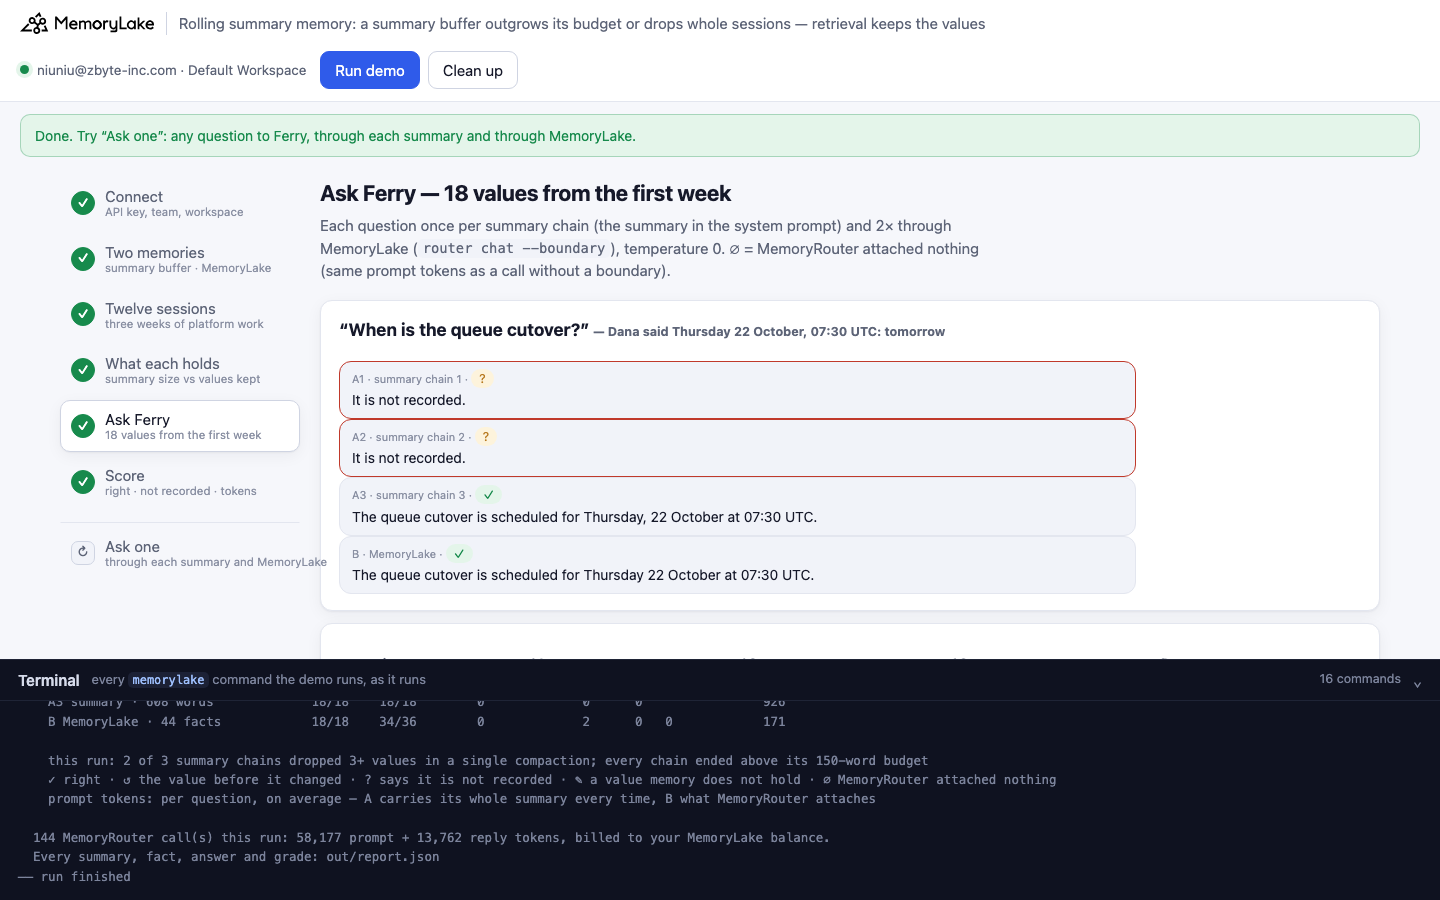
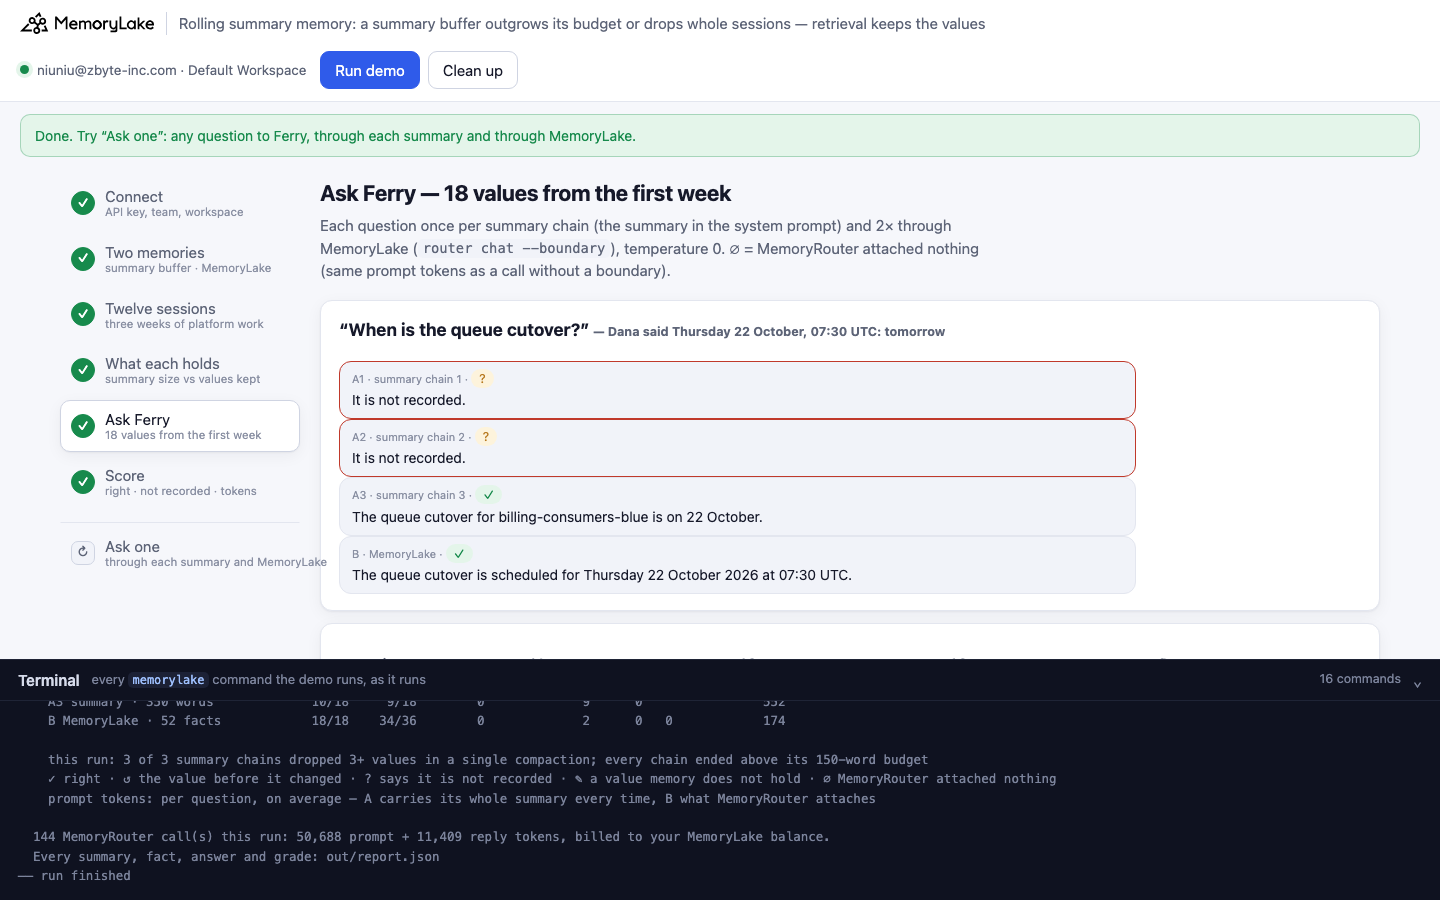
rolling-summary-memory: demo videos (CLI 10:08 · Web 10:22) and the 9-run totals

diff --git a/rolling-summary-memory/README.md b/rolling-summary-memory/README.md
@@ -4,7 +4,8 @@ A runnable version of the MemoryLake use case
 [*Stop Summarizing Agent History. Retrieve Structured Memory Instead.*](https://www.memorylake.ai/en/usecase/stop-summarizing-agent-history-retrieve-it-instead),
 built entirely on the [`memorylake` CLI](https://github.com/memorylake-ai/memorylake-cli) (v20261015 or later).
 
-**Watch it run:** recording in progress.
+**Watch it run:** [CLI, 10:08](https://github.com/memorylake-ai/memorylake-usecases/releases/download/rolling-summary-memory-v1/rolling-summary-memory-cli-demo.mp4) · [Web, 10:22](https://github.com/memorylake-ai/memorylake-usecases/releases/download/rolling-summary-memory-v1/rolling-summary-memory-web-demo.mp4)
+([release](https://github.com/memorylake-ai/memorylake-usecases/releases/tag/rolling-summary-memory-v1); GitHub serves them as downloads). Each video is one run; the numbers below add up all of them.
 
 **The problem.** Long agent history doesn't fit in the prompt, so many assistants keep a running summary: after each
 session the model folds the new session into the summary, with a size budget. It looks cheap and tidy. Two things
@@ -36,7 +37,7 @@ Then, on Wednesday 21 October, Ferry is asked for the 18 values — once per sum
 on `gpt-4o-mini` at temperature 0, with a system prompt that says "If it is not in what you remember, say it is not
 recorded." Nobody is tricked into guessing: the failure is honest forgetting.
 
-Over 7 runs (21 summary chains), **17 of 21 chains lost 4–12 values in a single compaction** (most often 9–11 at once); none of the 21 stayed under its 150-word budget (final size 160–608 words). Ferry answered **198/378** right from the summaries — 179 times "It is not recorded" — and **245/252** through MemoryLake, where all 18 values were in the facts in every run. Per question, the summary cost 537 prompt tokens on average (279–930); MemoryRouter's attachment, 172 (149–278). Details in [Measured](#measured).
+Over 9 runs (27 summary chains), **23 of 27 chains lost 4–12 values in a single compaction** (most often 9–11 at once); none of the 27 stayed under its 150-word budget (final size 160–608 words). Ferry answered **247/486** right from the summaries — 238 times "It is not recorded" — and **315/324** through MemoryLake, where all 18 values were in the facts in every run. Per question, the summary cost 522 prompt tokens on average (279–930); MemoryRouter's attachment, 172 (149–278). Details in [Measured](#measured).
 
 ## Prerequisites
 
@@ -211,7 +212,7 @@ because the whole summary rides along every time. MemoryRouter attached about 17
 
 ## Measured
 
-7 runs: three terminal runs, three parallel copies of the demo with their own `custom_id` prefix, and one browser run. Every number below comes from the saved reports (`out/runs/`), re-graded with the final grader.
+9 runs: three terminal runs, three parallel copies of the demo with their own `custom_id` prefix, the run recorded for the CLI video (from a fresh `git clone`), and two browser runs (the second is the web video). Every number below comes from the saved reports (`out/runs/`), re-graded with the final grader.
 
 **Per run** — each summary chain's final size and values held, and every compaction that dropped 3 or more values the summary held a moment before (`−N at sK (words before → after)`); then answers right from the summaries (3 chains × 18), what the facts held, and answers right through MemoryLake (2 × 18):
 
@@ -223,36 +224,38 @@ because the whole summary rides along every time. MemoryRouter attached about 17
 | copy1 | 336 w · 6/18 · −4 at s5 (182→171 w), −9 at s9 (338→156 w) | 232 w · 7/18 · −11 at s11 (510→164 w) | 219 w · 7/18 · −11 at s11 (507→152 w) | 20/54 | 47 facts · 18/18 | 36/36 |
 | copy2 | 599 w · 18/18 | 231 w · 7/18 · −11 at s11 (510→163 w) | 247 w · 8/18 · −10 at s11 (510→180 w) | 33/54 | 49 facts · 18/18 | 34/36 |
 | copy3 | 345 w · 8/18 · −11 at s8 (317→165 w) | 423 w · 8/18 · −11 at s7 (259→161 w) | 228 w · 8/18 · −10 at s11 (486→161 w) | 24/54 | 50 facts · 18/18 | 34/36 |
+| cli | 247 w · 8/18 · −11 at s7 (256→166 w) | 331 w · 8/18 · −11 at s7 (255→166 w) | 230 w · 8/18 · −10 at s11 (516→163 w) | 24/54 | 46 facts · 18/18 | 36/36 |
 | web1 | 327 w · 8/18 · −11 at s8 (306→193 w) | 219 w · 7/18 · −11 at s11 (506→152 w) | 608 w · 18/18 | 33/54 | 44 facts · 18/18 | 34/36 |
+| web2 | 364 w · 8/18 · −11 at s8 (317→183 w) | 225 w · 8/18 · −6 at s8 (313→264 w), −4 at s11 (377→159 w) | 350 w · 10/18 · −9 at s8 (308→151 w) | 25/54 | 52 facts · 18/18 | 34/36 |
 
 **Per question** (right / asked; the first nine are from the first three sessions):
 
 | value | A (summaries) | B (MemoryLake) |
 |---|---|---|
-| Postgres port | 21/21 | 14/14 |
-| Report replica | 21/21 | 14/14 |
-| Pool cap per pod | 21/21 | 14/14 |
-| Redis eviction | 20/21 | 14/14 |
-| Rate-card TTL | 19/21 | 14/14 |
-| Redis shards | 20/21 | 14/14 |
-| Deploy freeze | 15/21 | 14/14 |
-| Canary hold | 19/21 | 14/14 |
-| Rollback owner | 4/21 | 14/14 |
-| Webhook retries | 4/21 | 14/14 |
-| Max backoff | 4/21 | 14/14 |
-| Dead-letter queue | 4/21 | 11/14 |
-| TLS renewal | 4/21 | 14/14 |
-| kf_live_ revocation | 4/21 | 14/14 |
-| Audit-log retention | 4/21 | 14/14 |
-| Consumer group | 4/21 | 14/14 |
-| Cutover time | 6/21 | 14/14 |
-| Prefetch | 4/21 | 10/14 |
+| Postgres port | 27/27 | 18/18 |
+| Report replica | 27/27 | 18/18 |
+| Pool cap per pod | 27/27 | 18/18 |
+| Redis eviction | 26/27 | 18/18 |
+| Rate-card TTL | 25/27 | 18/18 |
+| Redis shards | 26/27 | 18/18 |
+| Deploy freeze | 21/27 | 18/18 |
+| Canary hold | 25/27 | 18/18 |
+| Rollback owner | 4/27 | 18/18 |
+| Webhook retries | 4/27 | 18/18 |
+| Max backoff | 4/27 | 18/18 |
+| Dead-letter queue | 4/27 | 15/18 |
+| TLS renewal | 4/27 | 18/18 |
+| kf_live_ revocation | 4/27 | 18/18 |
+| Audit-log retention | 4/27 | 18/18 |
+| Consumer group | 4/27 | 18/18 |
+| Cutover time | 7/27 | 18/18 |
+| Prefetch | 4/27 | 12/18 |
 
-- **The drop is a single step, and it takes the middle.** 17 of 21 chains lost a block of values in one compaction — usually at s7, s8 or s11 — and the block was sessions 3–6: the rollback owner, the webhook settings, the certificate and key dates, the cutover. Values from the first two sessions (Postgres, Redis) were answered right 122/126 from the summaries; values from sessions 4–6, 38/189. In 17 of those 19 compactions the summary also got much *shorter* (252–510 words → 144–193) — the only moment in a run it came near its budget; in the other 2, new sessions pushed old values out at about the same length.
-- **The chains that never dropped kept growing.** 4 of 21 ended at 590, 592, 599, 608 words (about 4× the budget) with every value — and paid for it on every question (900+ prompt tokens).
-- **The failure is honest.** With "say it is not recorded" in the system prompt, the summaries answered "It is not recorded" 179 times and gave a wrong value 1 time (a deploy freeze answered as "every Thursday", without the time). Without that sentence (an earlier probe, one chain that lost 10 values), 7 of the 10 holes were filled with a made-up value, 4 of them the very default the model gives with no memory at all: "retry three times", "webhook-dead-letter-queue", "renews every 90 days", "prefetches 10 messages".
-- **The two changes came through in MemoryLake.** Each session was extracted before the next was appended, so "raised the pool cap to 64" and "canaries held for 30 minutes, not 20" revised the earlier facts; B answered both with the new value every time (14/14 and 14/14); the summaries never answered with an old value either (0 times) — what they lost, they lost outright.
-- **MemoryLake's misses.** 7 of 252 answers said "not recorded" although the fact was in the project: the dead-letter queue (3) and the prefetch (4). In one run extraction had written the prefetch as "The ack latency alarm fires when a consumer prefetches above 25 messages", and the model would not read that as the prefetch count; for the others, what MemoryRouter attached was not inspected. ∅ (nothing attached): 0.
+- **The drop is a single step, and it takes the middle.** 23 of 27 chains lost a block of values in one compaction — usually at s7, s8 or s11 — and the block was sessions 3–6: the rollback owner, the webhook settings, the certificate and key dates, the cutover. Values from the first two sessions (Postgres, Redis) were answered right 158/162 from the summaries; values from sessions 4–6, 39/243. In 23 of those 26 compactions the summary also got much *shorter* (252–516 words → 144–193) — the only moment in a run it came near its budget; in the other 3, new sessions pushed old values out at about the same length.
+- **The chains that never dropped kept growing.** 4 of 27 ended at 590, 592, 599, 608 words (about 4× the budget) with every value — and paid for it on every question (900+ prompt tokens).
+- **The failure is honest.** With "say it is not recorded" in the system prompt, the summaries answered "It is not recorded" 238 times and gave a wrong value 1 time (a deploy freeze answered as "every Thursday", without the time). Without that sentence (an earlier probe, one chain that lost 10 values), 7 of the 10 holes were filled with a made-up value, 4 of them the very default the model gives with no memory at all: "retry three times", "webhook-dead-letter-queue", "renews every 90 days", "prefetches 10 messages".
+- **The two changes came through in MemoryLake.** Each session was extracted before the next was appended, so "raised the pool cap to 64" and "canaries held for 30 minutes, not 20" revised the earlier facts; B answered both with the new value every time (18/18 and 18/18); the summaries never answered with an old value either (0 times) — what they lost, they lost outright.
+- **MemoryLake's misses.** 9 of 324 answers said "not recorded" although the fact was in the project: the dead-letter queue (3) and the prefetch (6). In one run extraction had written the prefetch as "The ack latency alarm fires when a consumer prefetches above 25 messages", and the model would not read that as the prefetch count; for the others, what MemoryRouter attached was not inspected. ∅ (nothing attached): 0.
 
 ## Use it in your own assistant
 
@@ -262,7 +265,7 @@ because the whole summary rides along every time. MemoryRouter attached about 17
   `demo.py` does to draw the trace.
 - **Retrieve instead of re-summarizing.** Write each session to MemoryLake (`conv msg append` on a conversation in
   your project) and let extraction keep the facts; at answer time `router chat --boundary <id>` attaches only what
-  the question needs. Here that was ~170 prompt tokens per question against 280–920 for the summaries.
+  the question needs. Here that was ~170 prompt tokens per question against 280–930 for the summaries.
 - **Order the writes when sessions revise each other.** Extract each session before appending the next: the pool cap
   and canary changes came out as the new value ("raised to 64 … previously 40") because the older fact was already
   there to revise.

diff --git a/README.md b/README.md
@@ -131,7 +131,7 @@ that memory can hold once it is more than coding sessions.
 | [edited-page-memory](edited-page-memory/) | Research (memory synced from a Notion-style workspace) | A team syncs its workspace into MemoryLake, one fact per page block; ChatGPT and Claude read it through MemoryRouter. The living decisions page is edited, but its date is a page property, so the synced block has none, next to September meeting notes dated in their title. Three ways to write the edit: A page text · B + last-edited date · C + what it changed from. Over 6 runs, the six changed answers: gpt-4o-mini A 76/108 · B 91/108 · C 108/108, claude-haiku-4-5 A 43/108 · B 108/108 · C 108/108 — the date fixes Claude, not ChatGPT; naming the old value fixes both; controls 216/216 | ~3 min | [CLI 4:01](https://github.com/memorylake-ai/memorylake-usecases/releases/download/edited-page-memory-v1/edited-page-memory-cli-demo.mp4) · [Web 5:00](https://github.com/memorylake-ai/memorylake-usecases/releases/download/edited-page-memory-v1/edited-page-memory-web-demo.mp4) |
 | [provisioned-tenant-memory](provisioned-tenant-memory/) | Engineering (AI SaaS, a MemoryLake project per customer team) | The provisioning code names each tenant's project after the account id and has to put the customer's signup note somewhere. Three eval syncs of bare metric readings go into three tenant projects: A project only · B + the note as `--description` · C + the note as `fact instruction`. Over 6 runs, readings kept: A 5/72 · B 9/72 · C 60/72 — extraction never reads the description; whole meetings left nothing in A and B (16/18, 15/18) and in C 3/18 | ~5 min | [CLI 4:30](https://github.com/memorylake-ai/memorylake-usecases/releases/download/provisioned-tenant-memory-v1/provisioned-tenant-memory-cli-demo.mp4) · [Web 5:16](https://github.com/memorylake-ai/memorylake-usecases/releases/download/provisioned-tenant-memory-v1/provisioned-tenant-memory-web-demo.mp4) |
 | [kept-promise-memory](kept-promise-memory/) | Research (a knowledge worker's second brain) | A research analyst's sessions with her AI assistant — findings, decisions, and five promises to colleagues with dates — go into four copies of her memory: A as spoken · B + a `fact instruction` asking for every commitment · C the assistant replies "Commitment logged: …" in the chat · D the app writes each promise with `fact add`. Over 9 runs, the four promises to people were kept by extraction (with their dates) A 1/36 · B 1/36 · C 2/36 while the notes stayed (A 40/45); asked through MemoryRouter what she owes and when, the assistant answered A 18/61 · B 2/31 · C 10/60 · D 108/108 | ~5 min | [CLI 6:33](https://github.com/memorylake-ai/memorylake-usecases/releases/download/kept-promise-memory-v1/kept-promise-memory-cli-demo.mp4) · [Web 7:12](https://github.com/memorylake-ai/memorylake-usecases/releases/download/kept-promise-memory-v1/kept-promise-memory-web-demo.mp4) |
-| [rolling-summary-memory](rolling-summary-memory/) | Engineering (summary buffer vs retrieval) | A platform engineer's twelve sessions with the team's AI assistant go into a rolling summary ("under 150 words", three independent chains) and into MemoryLake (conversations → facts → MemoryRouter). Over 7 runs, 17 of 21 summary chains lost 4–12 values in a single compaction and none stayed under budget (160–608 words); asked for 18 values from the first week, the summaries answered 198/378 right (179× "It is not recorded"), MemoryLake 245/252, at 172 vs 537 prompt tokens per question | ~8 min | recording |
+| [rolling-summary-memory](rolling-summary-memory/) | Engineering (summary buffer vs retrieval) | A platform engineer's twelve sessions with the team's AI assistant go into a rolling summary ("under 150 words", three independent chains per run) and into MemoryLake (conversations → facts → MemoryRouter). Over 9 runs, 23 of 27 summary chains lost 4–12 values in a single compaction and none stayed under budget (160–608 words); asked for 18 values from the first week, the summaries answered 247/486 right (238× "It is not recorded"), MemoryLake 315/324, at 172 vs 522 prompt tokens per question | ~8 min | [CLI 10:08](https://github.com/memorylake-ai/memorylake-usecases/releases/download/rolling-summary-memory-v1/rolling-summary-memory-cli-demo.mp4) · [Web 10:22](https://github.com/memorylake-ai/memorylake-usecases/releases/download/rolling-summary-memory-v1/rolling-summary-memory-web-demo.mp4) |
 
 The videos are real, unedited recordings; every asset lives on the [releases page](https://github.com/memorylake-ai/memorylake-usecases/releases).
 
